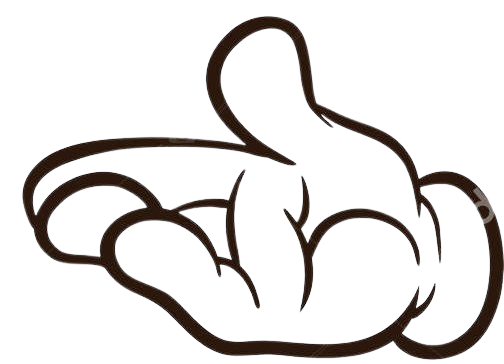
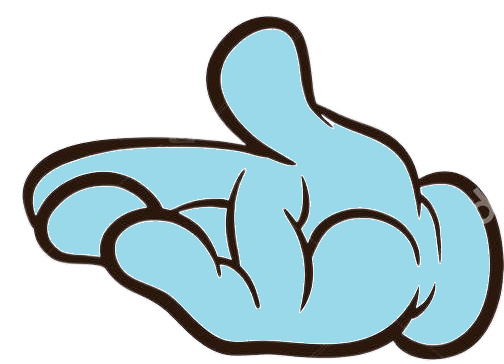
Improving hands graphics

diff --git a/2nd game/Juggle.py b/2nd game/Juggle.py
@@ -5,8 +5,8 @@ from random import choice
 class Hand:
     ''' An hand in the game '''
     def __init__(self, path, placement):
-        self.__surface = image.load(path).convert_alpha()        
-        transform.smoothscale(self.__surface.convert_alpha(), (80,80))
+        self.__surface = image.load(path)
+        self.__surface = transform.smoothscale(self.__surface.convert_alpha(), (100,80))
         self.__rect = self.__surface.get_rect(midleft=placement)
     
     @property
@@ -38,7 +38,7 @@ class Ball:
     @property
     def rect(self):
         return self.__rect
-    
+
     @property
     def surface(self):
         return self.__surface
@@ -98,8 +98,8 @@ def game_play():
     background_surface = image.load('2nd game/graphics/background/theater_bg.png')
     background_surface = transform.smoothscale(background_surface.convert(), (800,550))
 
-    right_hand = Hand('2nd game/graphics/hands/right_hand1.png', (500, 430))    
-    left_hand = Hand('2nd game/graphics/hands/left_hand1.png', (250, 430))
+    right_hand = Hand('2nd game/graphics/hands/right_hand.png', (500, 430))    
+    left_hand = Hand('2nd game/graphics/hands/left_hand.png', (250, 430))
 
     blue_ball = Ball('2nd game/graphics/balls/blue_ball.png')
     red_ball = Ball('2nd game/graphics/balls/red_ball.png')
